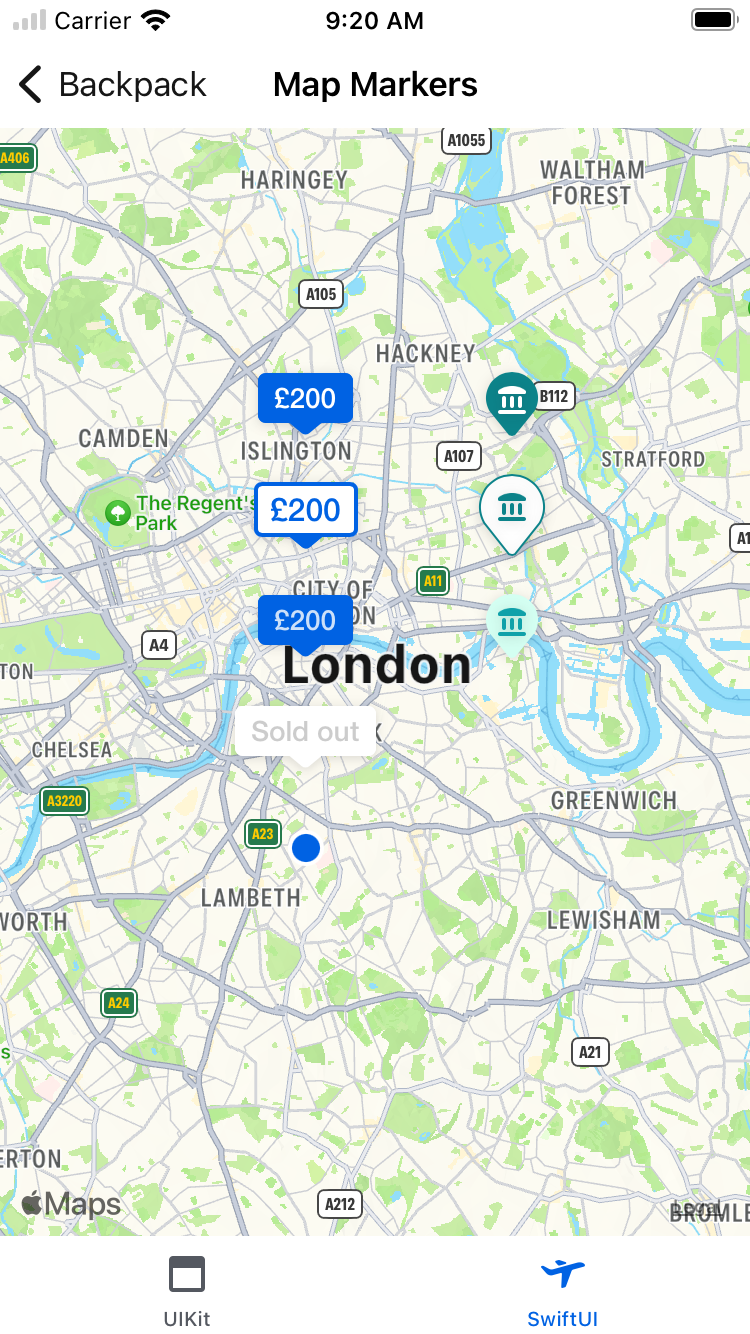
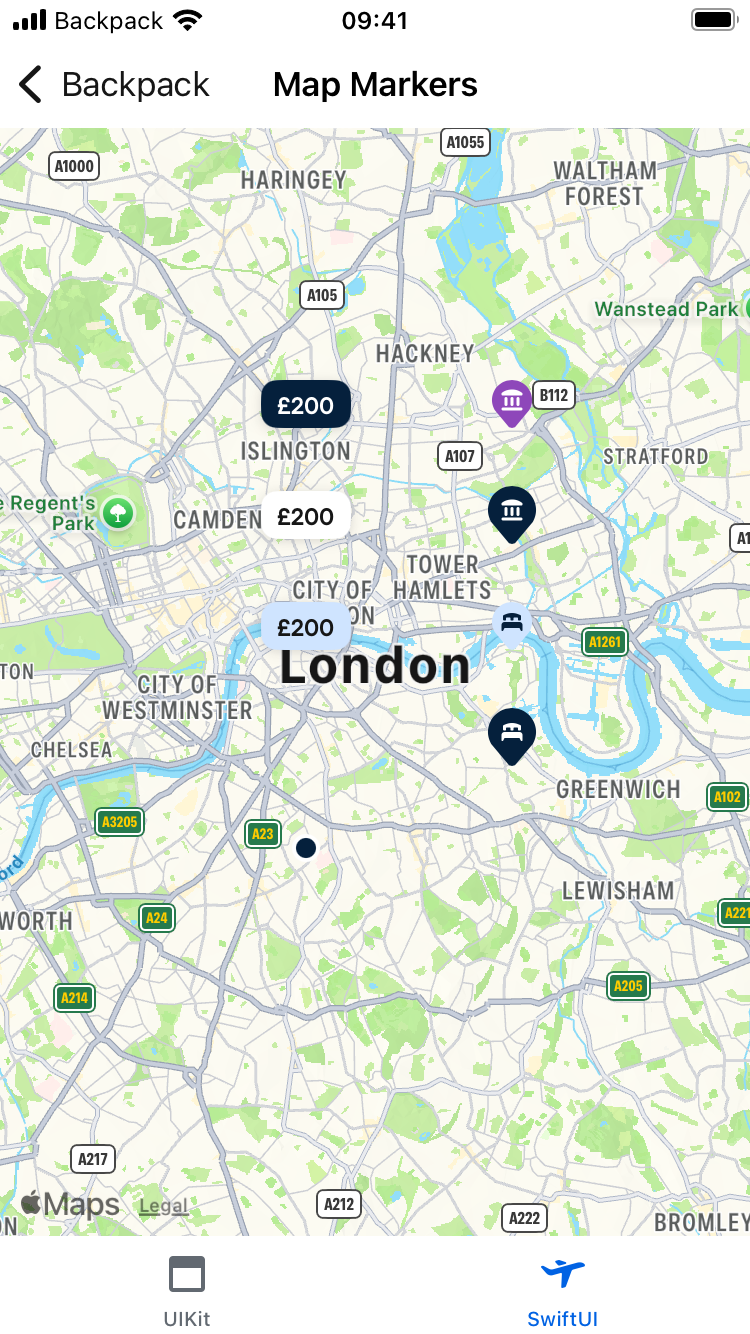
update screenshots and readme file

diff --git a/Backpack-SwiftUI/MapMarker/README.md b/Backpack-SwiftUI/MapMarker/README.md
@@ -18,35 +18,28 @@ The Price Marker receives a price string and a status. The status can be one of 
 
 ```swift
 public enum BPKPriceMapMarkerStatus {
-    case `default`
-    case focused
-    case viewed
-    case disabled
+    case selected
+    case unselected
+    case previousSelected
 }
 ```
 
-### Default Price Marker
+### Selected Price Marker
 
 ```swift
-BPKPriceMapMarker(status: .default, price: "£123")
+BPKPriceMapMarker(status: .selected, price: "£123")
 ```
 
-### Focused Price Marker
+### Unselected Price Marker
 
 ```swift
-BPKPriceMapMarker(status: .focused, price: "£123")
+BPKPriceMapMarker(status: .unselected, price: "£123")
 ```
 
-### Viewed Price Marker
+### Previous Selected Price Marker
 
 ```swift
-BPKPriceMapMarker(status: .viewed, price: "£123")
-```
-
-### Disabled Price Marker
-
-```swift
-BPKPriceMapMarker(status: .disabled, price: "Sold out")
+BPKPriceMapMarker(status: .previousSelected, price: "£123")
 ```
 
 ## Pointer Marker
@@ -61,26 +54,42 @@ The Poi Marker receives an icon and a status. The status can be one of the follo
 
 ```swift
 public enum BPKPoiMapMarkerStatus {
-    case `default`
-    case focused
-    case disabled
+    case unselected
+    case selected
 }
 ```
 
-### Default Poi Marker
+### Unselected Poi Marker
 
 ```swift
-BPKPoiMapMarker(status: .default, icon: .landmark)
+BPKPoiMapMarker(status: .unselected, icon: .landmark)
 ```
 
-### Focused Poi Marker
+### Selected Poi Marker
 
 ```swift
-BPKPoiMapMarker(status: .focused, icon: .landmark)
+BPKPoiMapMarker(status: .selected, icon: .landmark)
 ```
 
-### Disabled Poi Marker
+## Hotel Marker
+
+The Hotel Marker receives a status. The status can be one of the following:
 
 ```swift
-BPKPoiMapMarker(status: .disabled, icon: .landmark)
+public enum BPKHotelMapMarkerStatus {
+    case unselected
+    case selected
+}
+```
+
+### Unselected Hotel Marker
+
+```swift
+BPKHotelMapMarker(status: .unselected)
+```
+
+### Selected Hotel Marker
+
+```swift
+BPKHotelMapMarker(status: .selected)
 ```
